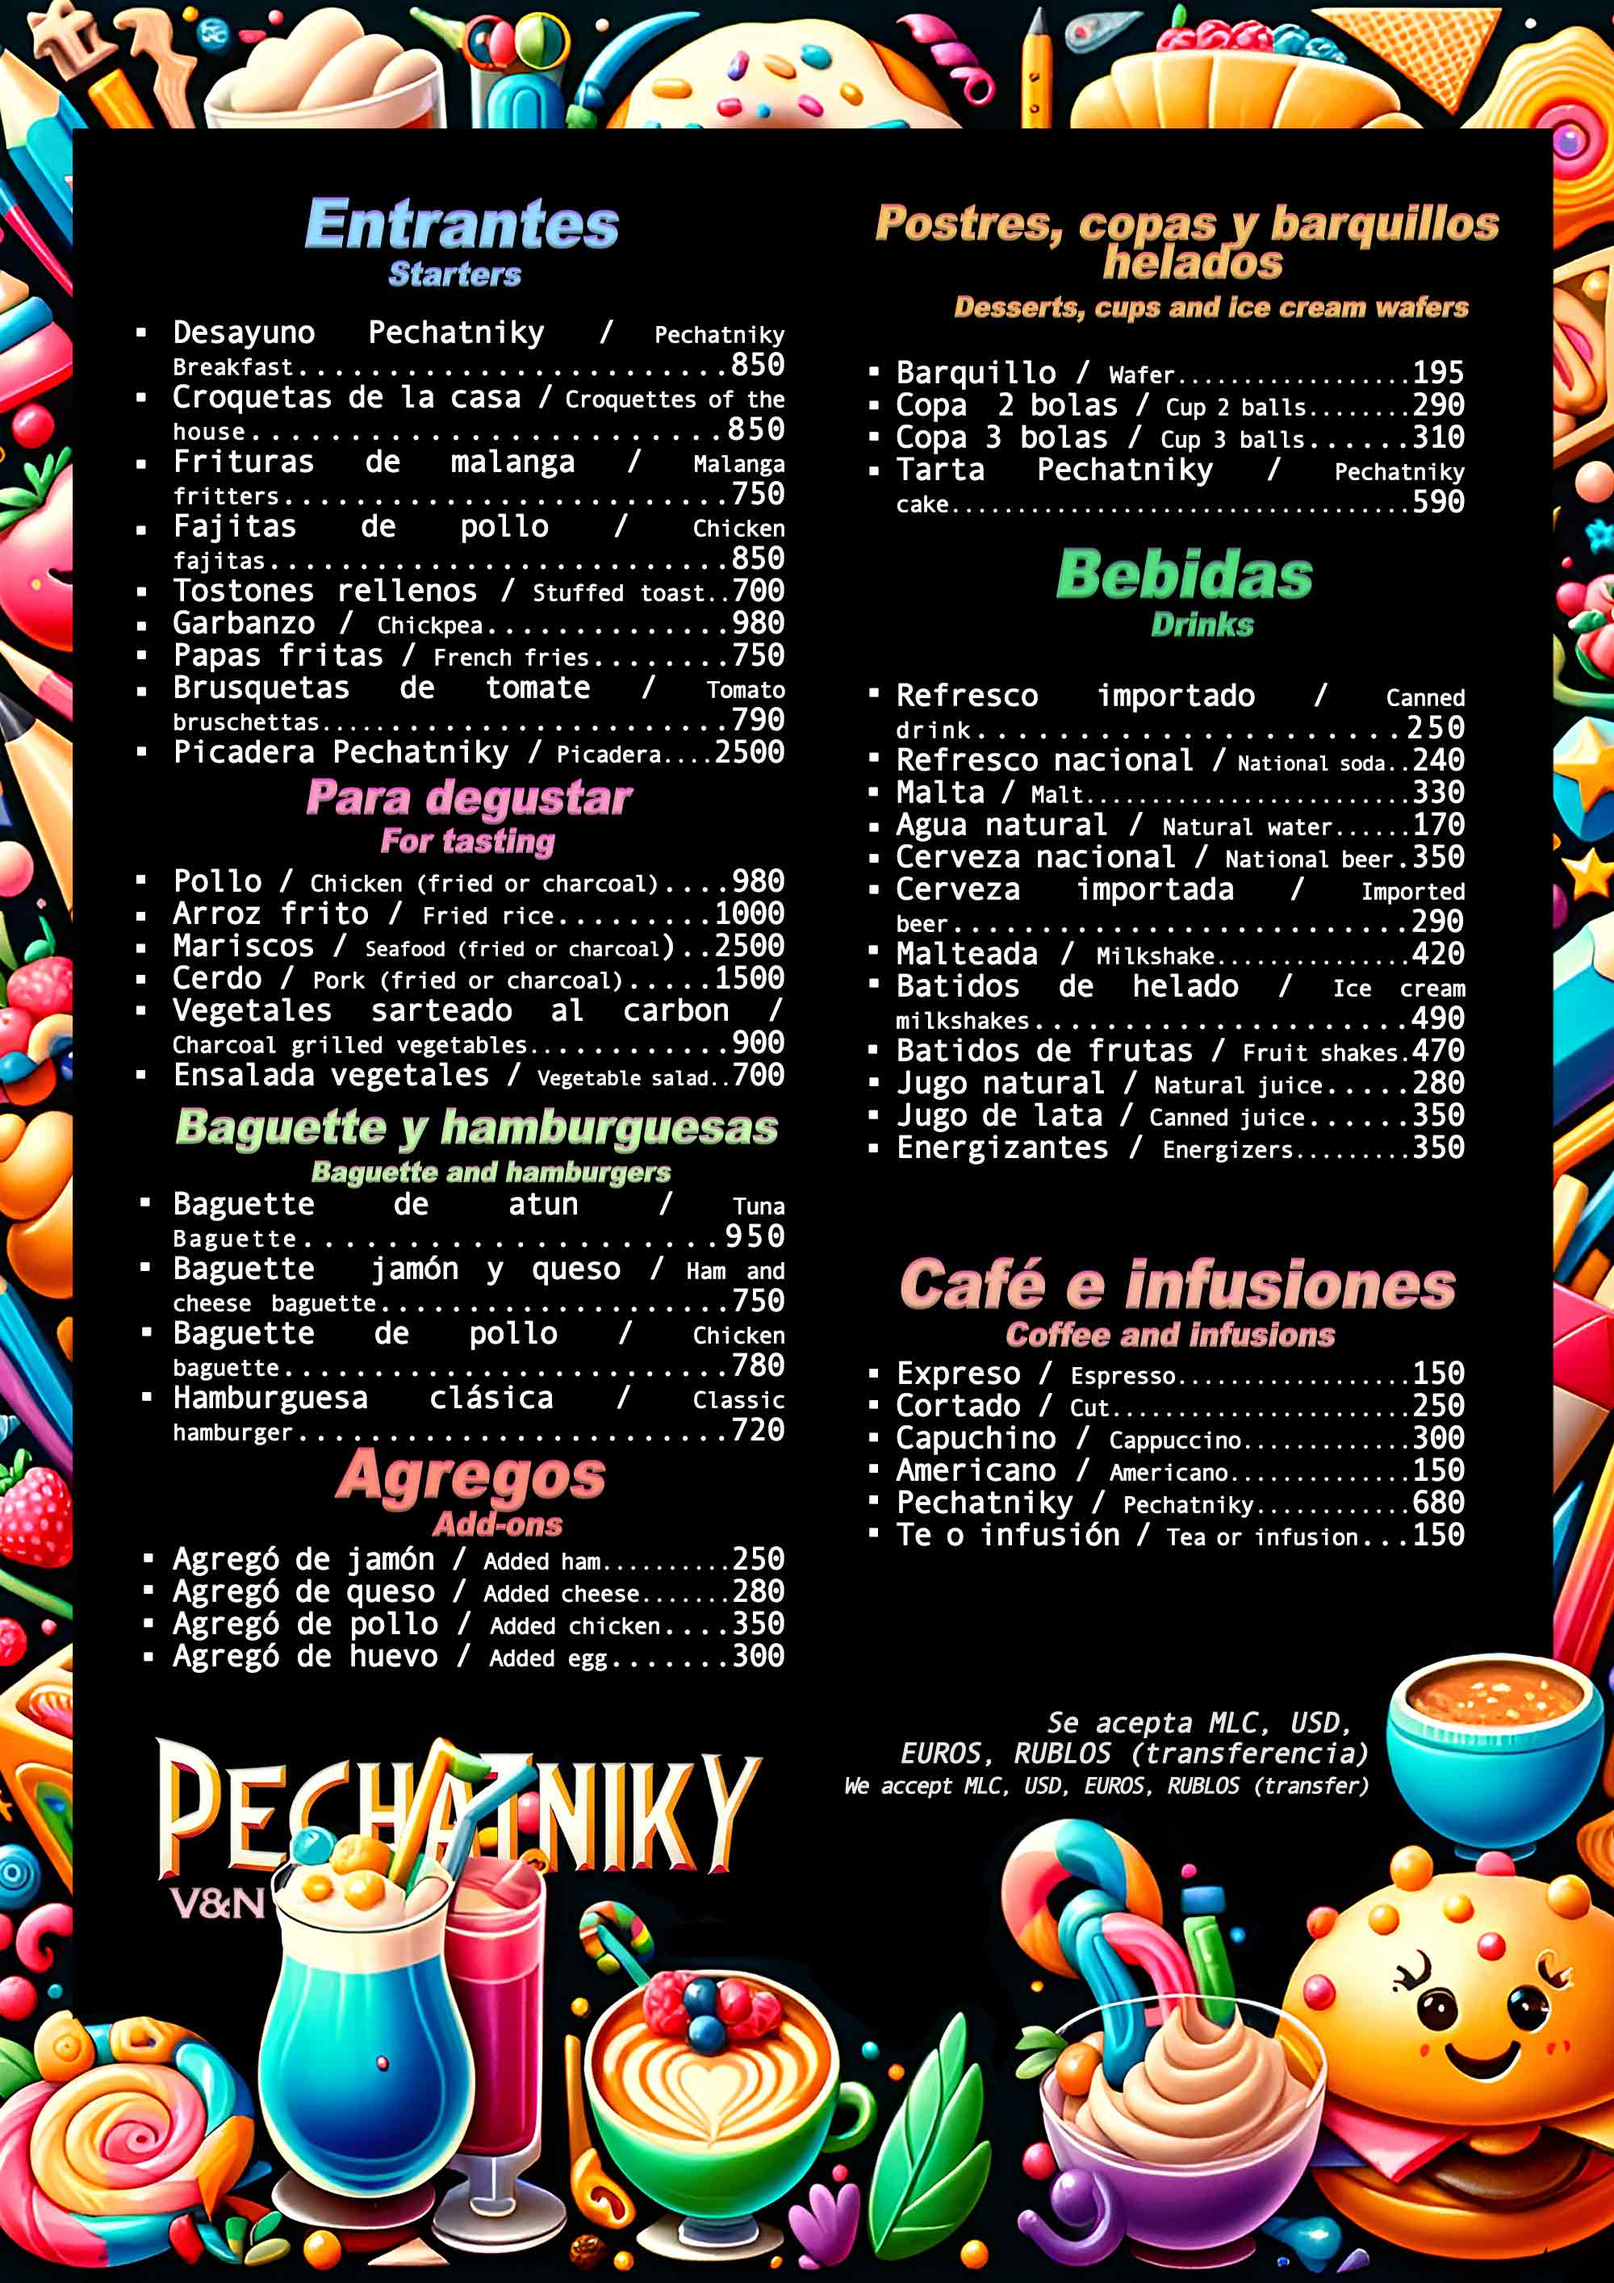
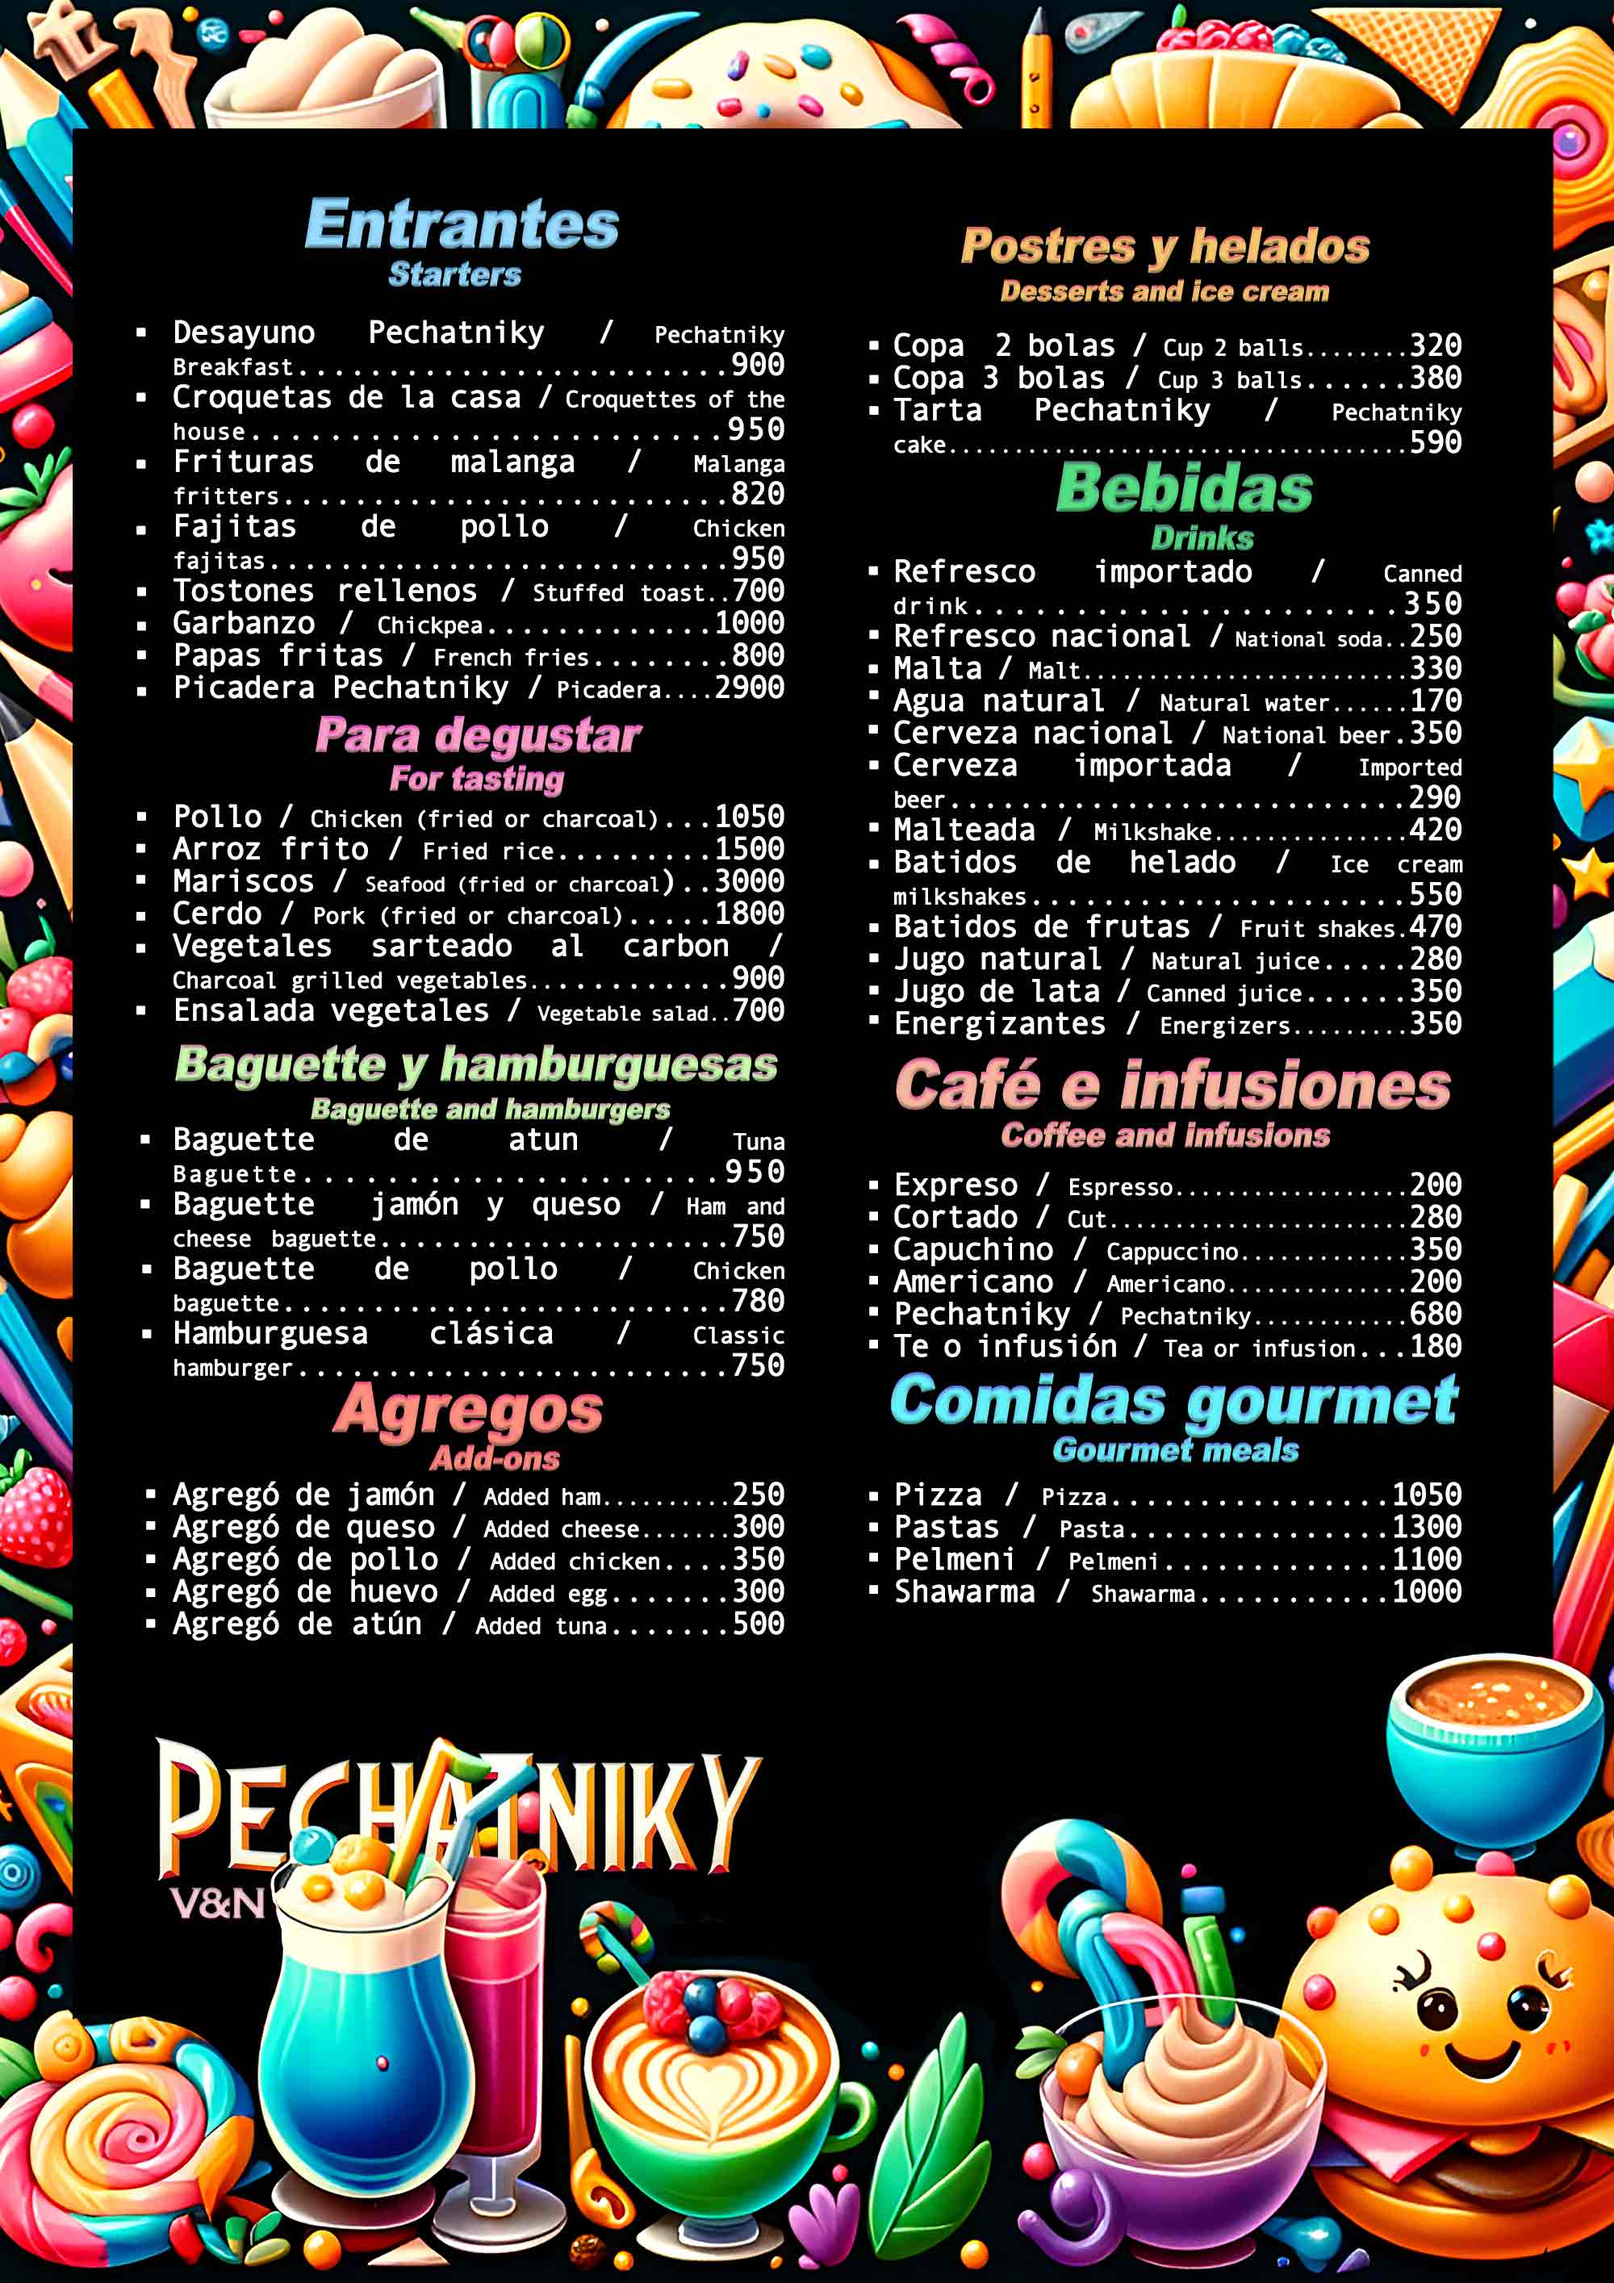
Меню 24/09, убрал ингридиенты

diff --git a/data.js b/data.js
@@ -4,66 +4,10 @@ const data = [
         name: 'Entrantes',
         items: [{
                 "name": "Desayuno Pechatniky",
-                "description": "Disfruta de un desayuno auténtico al estilo Pechatniky, una explosión de sabores tradicionales para comenzar tu día con energía.",
-                "products": "Huevos, pan integral, queso fresco, jamón, tomate, lechuga.",
+                "description": "Huevos, pan integral, queso fresco, jamón, tomate, lechuga.",
+                "ingridients": "Jamon x 30 gr, Queso x 25 gr, Salchicha x 1 , Malanga x 80 gr, Huevo x 1 , Miel De Abeja x 20 gr, Moztasa x 5 gr, Baguette Pan x 0.5 , Mantequilla Cocina x 20 gr, Frutas x 100 gr",
                 "price": 850,
                 "image": "desayuno_pechatniky"
-    },
-            {
-                "name": "Croquetas de la casa",
-                "description": "Deliciosas croquetas caseras, crujientes por fuera y cremosas por dentro, perfectas para abrir el apetito.",
-                "products": "Bechamel, jamón serrano, pollo, cebolla, harina, pan rallado.",
-                "price": 790,
-                "image": "croquetas_de_la_casa"
-    },
-            {
-                "name": "Frituras de malanga",
-                "description": "Crujientes frituras de malanga, un manjar exótico que te transportará al Caribe con cada bocado.",
-                "products": "Malanga, ajo, perejil, sal, aceite.",
-                "price": 560,
-                "image": "frituras_de_malanga"
-    },
-            {
-                "name": "Fajitas de pollo",
-                "description": "Fajitas de pollo jugoso y bien sazonado, servido con pimientos y cebolla asados.",
-                "products": "Pechuga de pollo, pimientos, cebolla, especias, tortillas de harina.",
-                "price": 700,
-                "image": "fajitas_de_pollo"
-    },
-            {
-                "name": "Tostones rellenos",
-                "description": "Tostones rellenos con una mezcla deliciosa de carnes y vegetales, un bocado crujiente y lleno de sabor.",
-                "products": "Plátano verde, carne molida, cebolla, pimientos, ajo, aceite.",
-                "price": 640,
-                "image": "tostones_rellenos"
-    },
-            {
-                "name": "Garbanzo",
-                "description": "Una combinación exquisita de garbanzos preparados con especias mediterráneas, un plato lleno de sabor y nutrientes.",
-                "products": "Garbanzos, cebolla, tomate, ajo, comino, aceite de oliva.",
-                "price": 790,
-                "image": "garbanzo_chickpea"
-    },
-            {
-                "name": "Papas fritas",
-                "description": "Clásicas papas fritas, doradas y crujientes, el acompañamiento perfecto para cualquier plato.",
-                "products": "Papas, sal, aceite.",
-                "price": 750,
-                "image": "papas_fritas"
-    },
-            {
-                "name": "Brusquetas de tomate",
-                "description": "Brusquetas de tomate fresco, con albahaca y un toque de aceite de oliva, una delicia italiana que no puedes perderte.",
-                "products": "Pan tostado, tomate, albahaca, ajo, aceite de oliva, sal.",
-                "price": 790,
-                "image": "brusquetas_de_tomate"
-    },
-            {
-                "name": "Picadera Pechatniky",
-                "description": "Una selección de los mejores aperitivos Pechatniky, ideal para compartir y disfrutar de una experiencia gastronómica completa.",
-                "products": "Variedad de quesos, embutidos, aceitunas, frutos secos, pan.",
-                "price": 2150,
-                "image": "picadera_pechatniky"
     },
                ]
             },
@@ -73,234 +17,10 @@ const data = [
         items: [
             {
                 "name": "Pollo frito",
-                "description": "Pollo frito, jugoso por dentro y crujiente por fuera, una delicia clásica que siempre encanta.",
-                "products": "Pollo, harina, especias, aceite.",
+                "description": "Pollo, harina, especias, aceite.",
                 "price": 850,
                 "image": "pollo_frito"
     },
-            {
-                "name": "Pollo al carbón",
-                "description": "Pollo al carbón, marinado en especias y asado a la perfección, con un sabor ahumado irresistible.",
-                "products": "Pollo, ajo, limón, especias, aceite.",
-                "price": 1000,
-                "image": "pollo_al_carbon"
-    },
-            {
-                "name": "Arroz frito",
-                "description": "Arroz frito al estilo oriental, con vegetales frescos y un toque de salsa de soja, un plato lleno de sabor.",
-                "products": "Arroz, zanahoria, guisantes, cebolla, huevo, salsa de soja.",
-                "price": 950,
-                "image": "arroz_frito"
-    },
-            {
-                "name": "Langosta al carbón",
-                "description": "Langosta al carbón, un lujo culinario con un toque ahumado, perfecta para una ocasión especial.",
-                "products": "Langosta, ajo, limón, mantequilla, especias.",
-                "price": 2200,
-                "image": "langosta_al_carbon"
-    },
-            {
-                "name": "Lomo de cerdo al carbón",
-                "description": "Lomo de cerdo al carbón, jugoso y tierno, marinado en una mezcla de especias y asado a la perfección.",
-                "products": "Lomo de cerdo, ajo, pimentón, especias, aceite.",
-                "price": 1500,
-                "image": "lomo_de_cerdo_al_carbon"
-    },
-            {
-                "name": "Vegetales salteados al carbón",
-                "description": "Una mezcla de vegetales frescos, salteados al carbón para resaltar su sabor natural y darle un toque ahumado.",
-                "products": "Calabacín, pimientos, cebolla, champiñones, aceite de oliva.",
-                "price": 900,
-                "image": "vegetales_salteados_al_carbon"
-    }
-               ]
-    },
-    // ------ Baguette y hamburguesas
-    {
-        name: 'Baguette y hamburguesas',
-        items: [
-            {
-                "name": "Baguette de atún",
-                "description": "Baguette fresca rellena de atún jugoso, mezclado con mayonesa y vegetales frescos para un almuerzo perfecto.",
-                "products": "Baguette, atún, mayonesa, lechuga, tomate, cebolla.",
-                "price": 950,
-                "image": "baguette_de_atun"
-    },
-            {
-                "name": "Baguette jamón y queso",
-                "description": "Una clásica baguette de jamón y queso, con ingredientes frescos y pan crujiente.",
-                "products": "Baguette, jamón, queso, mantequilla.",
-                "price": 700,
-                "image": "baguette_jamon_y_queso"
-    },
-            {
-                "name": "Baguette de pollo",
-                "description": "Baguette rellena de pollo sazonado, acompañado de vegetales frescos y una deliciosa salsa.",
-                "products": "Baguette, pollo, lechuga, tomate, mayonesa.",
-                "price": 720,
-                "image": "baguette_de_pollo"
-    },
-            {
-                "name": "Hamburguesa clásica",
-                "description": "Una hamburguesa clásica con carne jugosa, queso derretido y todos los ingredientes tradicionales.",
-                "products": "Pan de hamburguesa, carne de res, queso, lechuga, tomate, cebolla, mayonesa, ketchup.",
-                "price": 690,
-                "image": "hamburguesa_clasica"
-    }
-               ]
-    },
-    // ------ Agregos
-    {
-        name: 'Agregos',
-        items: [
-            {
-                "name": "Agregó de jamón",
-                "price": 230,
-                "image": "agrego_de_jamon"
-    },
-            {
-                "name": "Agregó de queso",
-                "price": 250,
-                "image": "agrego_de_queso"
-    },
-            {
-                "name": "Agregó de pollo",
-                "price": 280,
-                "image": "agrego_de_pollo"
-    },
-            {
-                "name": "Agregó de huevo",
-                "price": 200,
-                "image": "agrego_de_huevo"
-    },
-               ]
-    },
-    // ------ Postres, copas y barquillos helados
-    {
-        name: 'Postres, copas y barquillos helados',
-        items: [
-            {
-                "name": "Barquillo",
-                "price": 195,
-                "image": "barquillo"
-    },
-            {
-                "name": "Copa 2 bolas",
-                "price": 290,
-                "image": "copa_2_bolas"
-    },
-            {
-                "name": "Copa 3 bolas",
-                "price": 310,
-                "image": "copa_3_bolas"
-    },
-            {
-                "name": "Tarta Pechatniky",
-                "price": 490,
-                "image": "tarta_pechatniky"
-    },
-               ]
-    },
-    // ------ Bebidas
-    {
-        name: 'Bebidas',
-        items: [
-            {
-                "name": "Refresco lata importado",
-                "price": 230,
-                "image": "refresco_lata_importado"
-    },
-            {
-                "name": "Refresco lata nacional",
-                "price": 220,
-                "image": "refresco_lata_nacional"
-    },
-            {
-                "name": "Malta",
-                "price": 330,
-                "image": "malta"
-    },
-            {
-                "name": "Agua natural",
-                "price": 160,
-                "image": "agua_natural"
-    },
-            {
-                "name": "Cerveza nacional",
-                "price": 350,
-                "image": "cerveza_nacional"
-    },
-            {
-                "name": "Cerveza importada",
-                "price": 290,
-                "image": "cerveza_importada"
-    },
-            {
-                "name": "Malteada",
-                "price": 420,
-                "image": "malteada"
-    },
-            {
-                "name": "Batidos de helado",
-                "price": 490,
-                "image": "batidos_de_helado"
-    },
-            {
-                "name": "Batidos de frutas",
-                "price": 470,
-                "image": "batidos_de_frutas"
-    },
-            {
-                "name": "Jugo natural",
-                "price": 280,
-                "image": "jugo_natural"
-    },
-            {
-                "name": "Jugo de caja",
-                "price": 330,
-                "image": "jugo_de_caja"
-    },
-            {
-                "name": "Energizantes",
-                "price": 350,
-                "image": "energizantes"
-    },
-               ]
-    },
-    // ------ Café e infusiones
-    {
-        name: 'Café e infusiones',
-        items: [
-            {
-                "name": "Expreso",
-                "price": 150,
-                "image": "expreso"
-    },
-            {
-                "name": "Cortado",
-                "price": 250,
-                "image": "cortado"
-    },
-            {
-                "name": "Capuchino",
-                "price": 300,
-                "image": "capuchino"
-    },
-            {
-                "name": "Americano",
-                "price": 150,
-                "image": "americano"
-    },
-            {
-                "name": "Pechatniky",
-                "price": 680,
-                "image": "pechatniky"
-    },
-            {
-                "name": "Te o infusión",
-                "price": 150,
-                "image": "te_o_infusion"
-    }
                ]
     },
 ]

diff --git a/script.js b/script.js
@@ -21,7 +21,7 @@ for (const category of data) {
         const itemLi = document.createElement('li');
         let itemDescription = ''
         if (item.description) {
-            itemDescription = `<div class="card_text"><p>${item.description}</p><p><i>Ingredientes:</i> ${item.products}</p><br>`
+            itemDescription = `<div class="card_text"><p>${item.description}</p><br>`
         }
         itemLi.className = 'cards_item';
         itemLi.innerHTML = `<div class="card"><div class="card_image"><a href="images/${folder}/${item.image}_big.jpg" target="_blank"><img loading="lazy" src="images/${folder}/${item.image}_small.jpg"></a></div><div class="card_content"><br><h2 class="card_title">${item.name} • $${item.price}</h2><br>${itemDescription}</div></div></div>`
